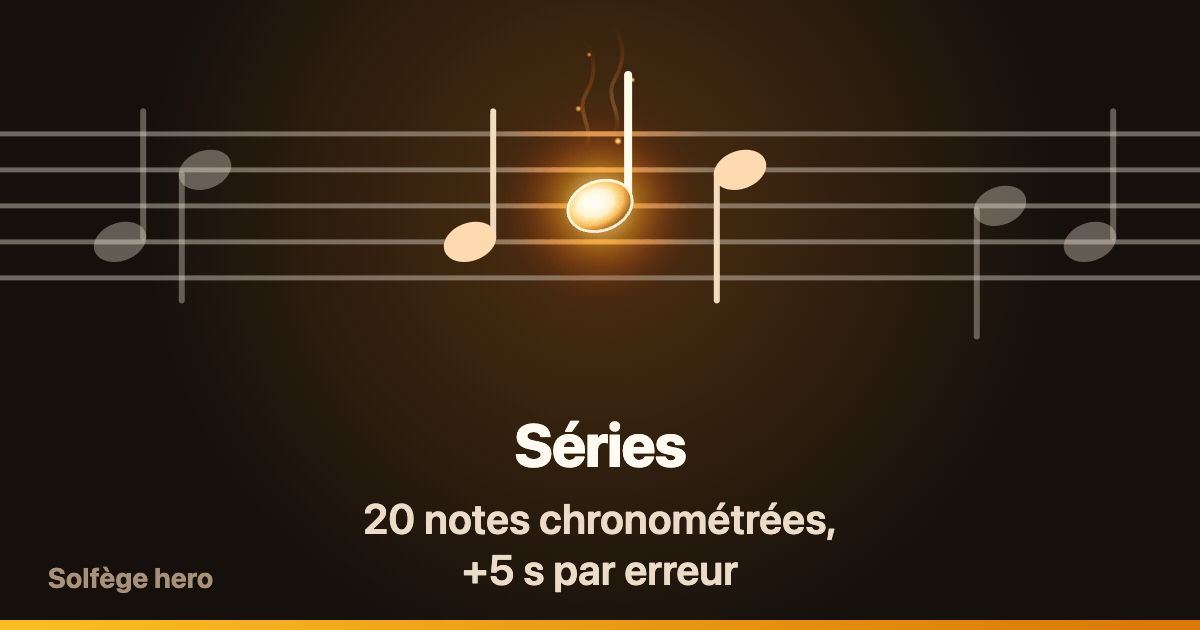
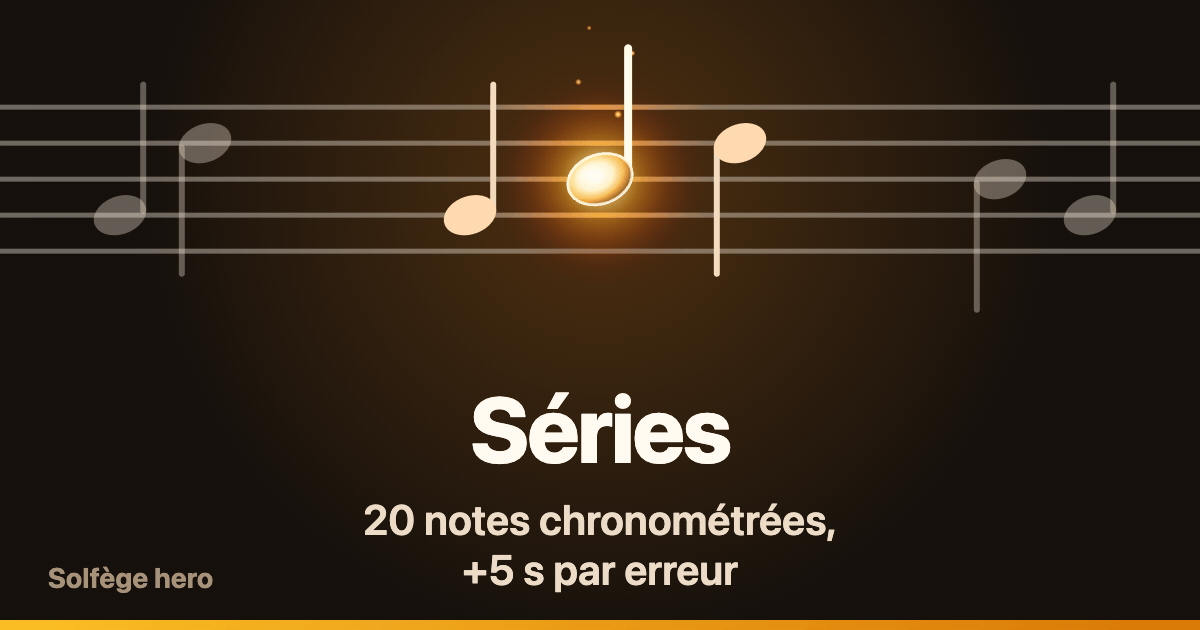
fix: no frozen heat waves on static hot notes
Still waves read as smoke on icons, share images and the static logo frame.

diff --git a/src/brand/streakFx.ts b/src/brand/streakFx.ts
@@ -294,7 +294,7 @@ export function hotHeadMarkup(prefix: string, shape: 'filled' | 'hollow', { rx, 
 export interface HotNoteStaticOptions extends Omit<HotHeadOptions, 'heat'> {
   shape: 'filled' | 'hollow'
   intensity: number
-  /** `small` (favicons): halo and head only, at most 2 embers. `full`: frozen heat waves and up to 4 embers. */
+  /** `small` (favicons): halo and head, at most 2 embers. `full`: up to 4 embers. No frozen heat waves: still, they read as smoke. */
   detail: 'small' | 'full'
 }
 
@@ -305,17 +305,11 @@ const partTransform = ({ x, y, scale }: FxPart) => `translate(${num(x)} ${num(y)
 export function hotNoteStatic(prefix: string, { shape, intensity, detail, ...head }: HotNoteStaticOptions): string {
   const level = clamp(intensity)
   const small = detail === 'small'
-  const frame = fxStillFrame(level, { embers: small ? Math.round(2 * level) : Math.min(4, emberCount(level)), waves: !small })
-  const waves = small
-    ? ''
-    : `<g fill="none" stroke="url(#${prefix}-heatwave)" stroke-linecap="round" stroke-width="1.1">${WAVE_XS.map(
-        (x, index) =>
-          `<path d="M${x} 0C${x + 3} -5 ${x - 3} -10 ${x} -15S${x + 3} -25 ${x} -30" transform="translate(0 ${num(frame.waves[index]?.y ?? 0)})" opacity="${num(frame.waves[index]?.opacity ?? 0)}"/>`,
-      ).join('')}</g>`
+  const frame = fxStillFrame(level, { embers: small ? Math.round(2 * level) : Math.min(4, emberCount(level)) })
   const embers = frame.embers
     .filter((ember) => ember.opacity > 0)
     .map((ember) => `<circle r="1.2" fill="url(#${prefix}-ember)" transform="${partTransform(ember)}" opacity="${num(ember.opacity)}"/>`)
     .join('')
-  return `<g stroke="none"><circle r="${AURA_GRADIENT_RADIUS}" fill="url(#${prefix}-aura)" transform="scale(${num(frame.aura.scale)})" opacity="${num(frame.aura.opacity)}"/>${waves}
+  return `<g stroke="none"><circle r="${AURA_GRADIENT_RADIUS}" fill="url(#${prefix}-aura)" transform="scale(${num(frame.aura.scale)})" opacity="${num(frame.aura.opacity)}"/>
   ${hotHeadMarkup(prefix, shape, { ...head, heat: num(frame.heat) })}${embers}</g>`
 }

diff --git a/src/brand/streakFx.test.ts b/src/brand/streakFx.test.ts
@@ -160,8 +160,7 @@ describe('still frame and markup', () => {
   it('makes small statics simpler than full ones', () => {
     const small = hotNoteStatic('t', { shape: 'filled', rx: 10, ry: 7, intensity: 1, detail: 'small' })
     const full = hotNoteStatic('t', { shape: 'filled', rx: 10, ry: 7, intensity: 1, detail: 'full' })
-    expect(small).not.toContain('heatwave')
-    expect(full).toContain('heatwave')
+    expect(`${small}${full}`).not.toContain('heatwave')
     expect(small.match(/t-ember/g)?.length ?? 0).toBeLessThanOrEqual(2)
     expect(full.length).toBeGreaterThan(small.length)
   })
